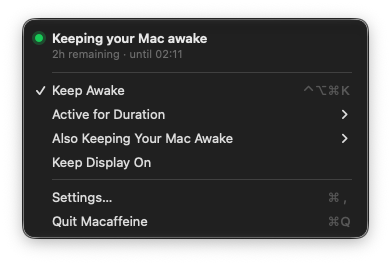
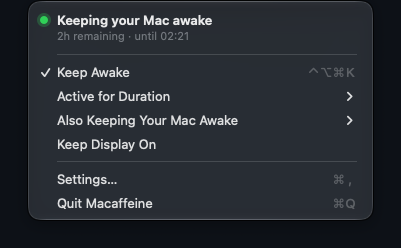
Retake menu screenshots on a clean background

diff --git a/README.md b/README.md
@@ -19,7 +19,7 @@
 <p align="center">
   <picture>
     <source media="(prefers-color-scheme: dark)" srcset="docs/images/menu-dark.png">
-    <img src="docs/images/menu-light.png" width="391" alt="Macaffeine menu: keeping your Mac awake, 2h remaining">
+    <img src="docs/images/menu-light.png" width="401" alt="Macaffeine menu: keeping your Mac awake, 2h remaining">
   </picture>
 </p>
 
